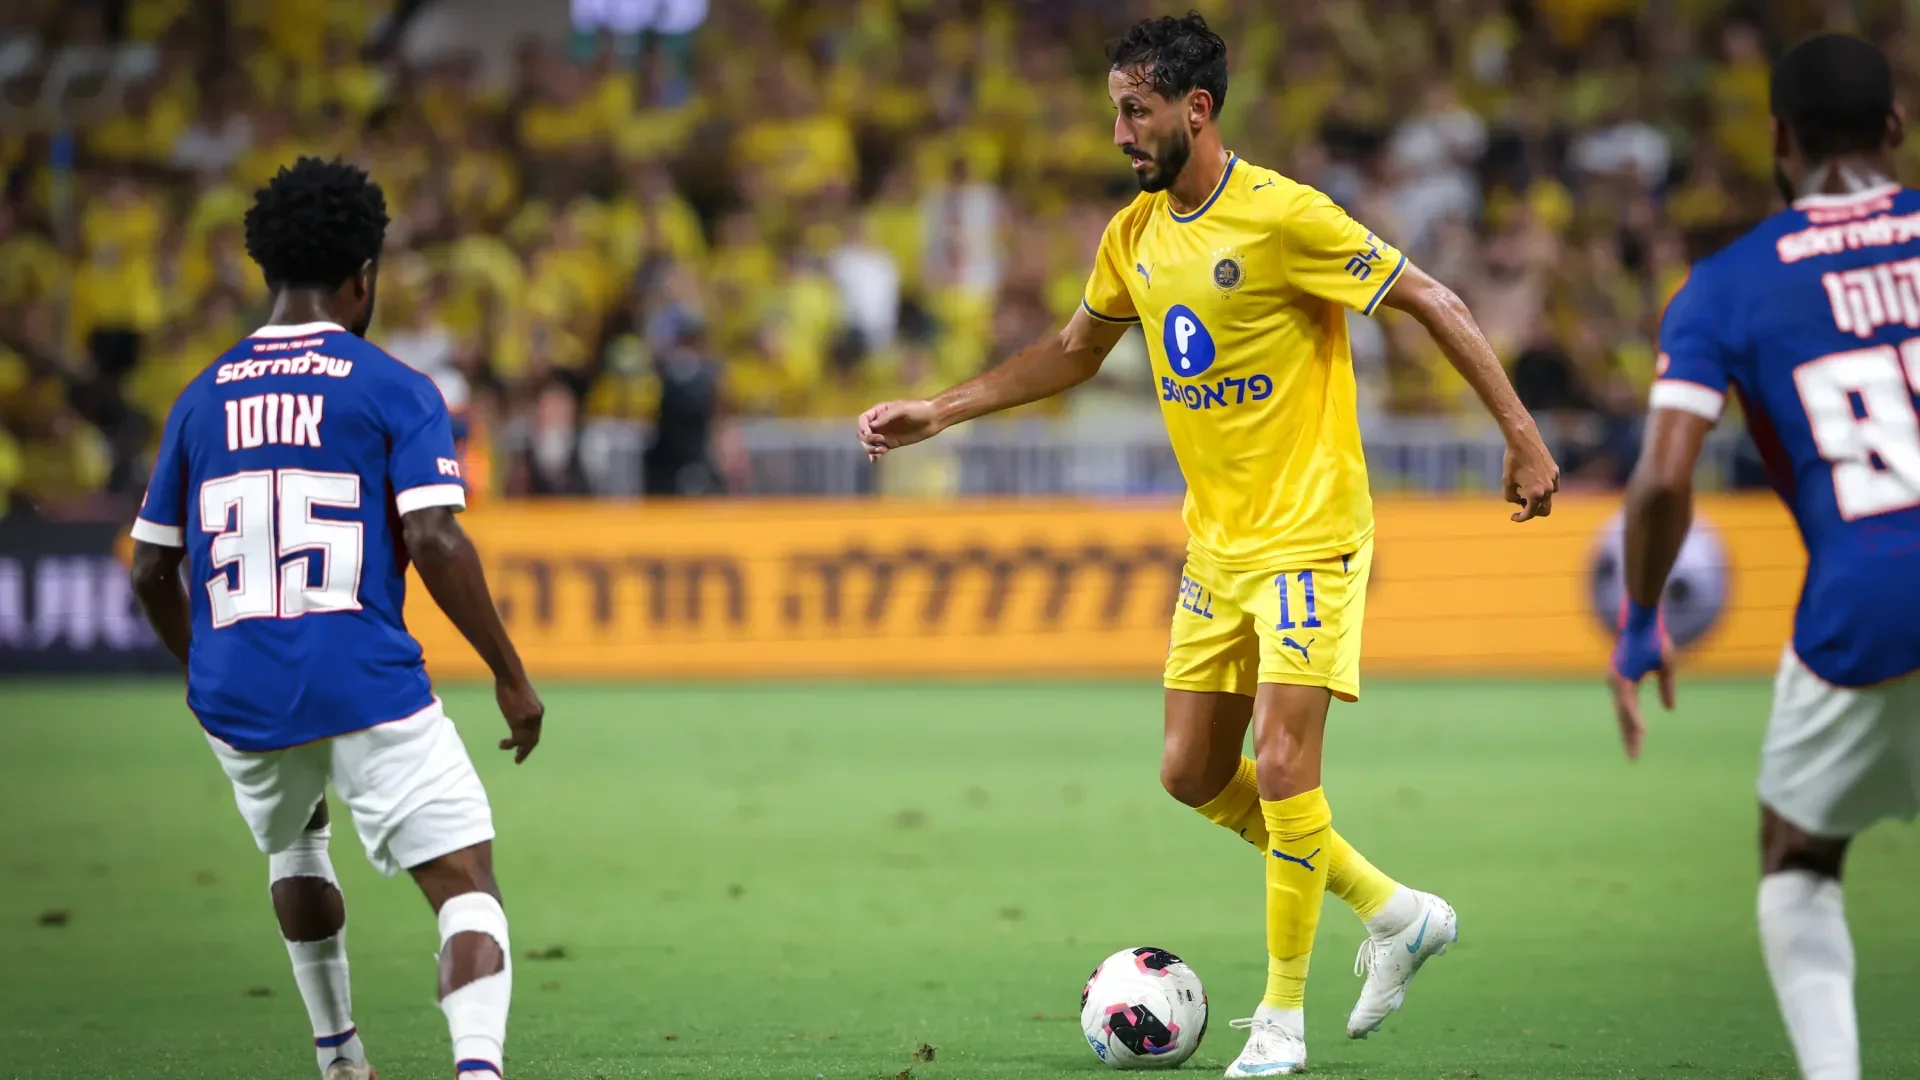
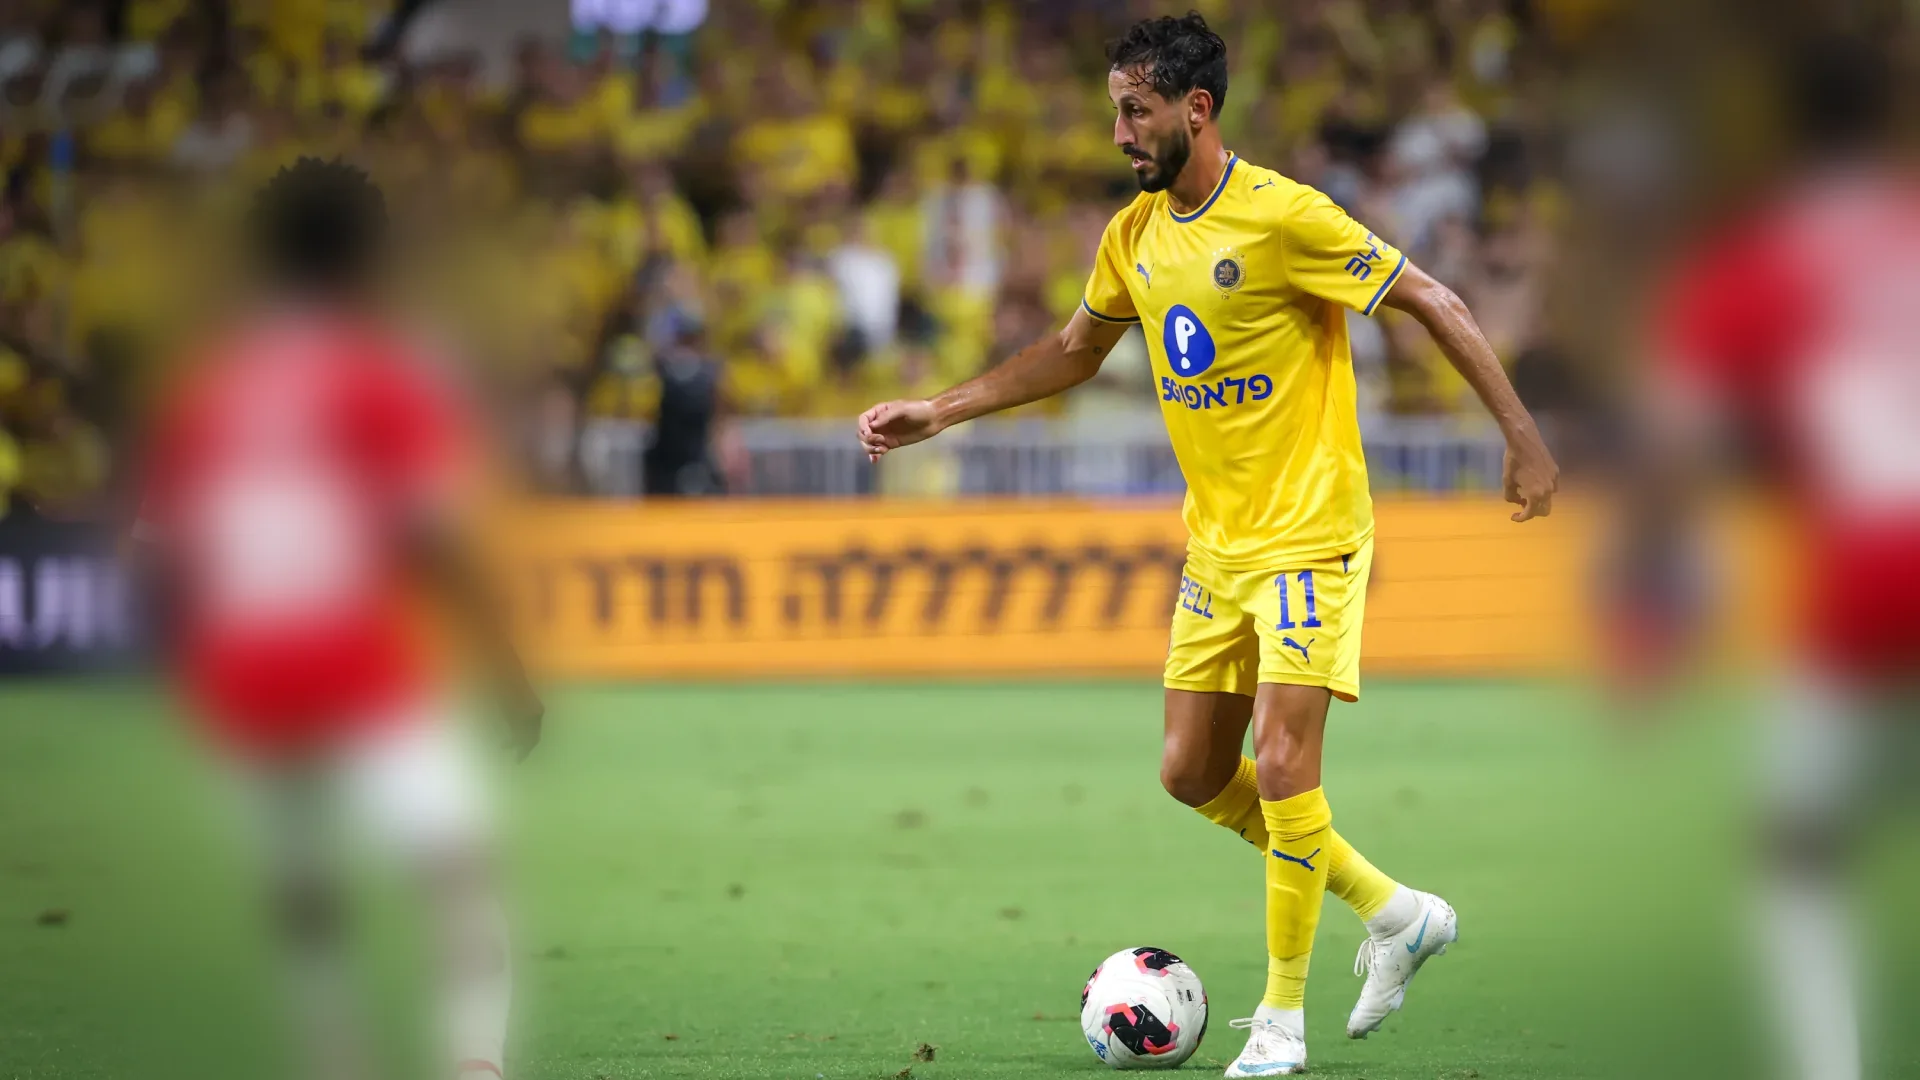
Blur rival players instead of recolouring photos
Only match-home-1 is edited now: the two opposing players in red are blurred
(scripts/blur-rivals.py). Crowd, tifo and the other match photos are back to
the originals.

Claude-Session: https://claude.ai/code/session_01Wnot8EfJdmEaDCsw2dcasM

diff --git a/scripts/blur-rivals.py b/scripts/blur-rivals.py
@@ -1,0 +1,33 @@
+"""Blur opposing players in red kits out of match photos.
+
+Red is the colour of the club's biggest rival, so on the site those players
+are softened into the background rather than recoloured. The crowd and the
+Maccabi players stay untouched. Run from the repo root:
+    python3 -I scripts/blur-rivals.py
+Regions were located from the red mask of each photo and padded to cover the
+whole player (head to boots). The source files are listed in public/media/CREDITS.md.
+"""
+from PIL import Image, ImageDraw, ImageFilter
+
+REGIONS = {
+    # file: [(left, top, right, bottom), ...] in source pixels (1920x1080)
+    "public/media/match-home-1.webp": [(70, 150, 580, 1080), (1530, 0, 1920, 1080)],
+}
+
+
+def blur_regions(path: str, boxes: list[tuple[int, int, int, int]]) -> None:
+    im = Image.open(path).convert("RGB")
+    blurred = im.filter(ImageFilter.GaussianBlur(30))
+    mask = Image.new("L", im.size, 0)
+    draw = ImageDraw.Draw(mask)
+    for box in boxes:
+        draw.rounded_rectangle(box, radius=90, fill=255)
+    # A wide feather so the blur dissolves into the pitch instead of ending in a hard edge.
+    mask = mask.filter(ImageFilter.GaussianBlur(45))
+    Image.composite(blurred, im, mask).save(path, "WEBP", quality=84, method=6)
+    print(f"{path}: blurred {len(boxes)} region(s)")
+
+
+if __name__ == "__main__":
+    for file, boxes in REGIONS.items():
+        blur_regions(file, boxes)

diff --git a/public/media/CREDITS.md b/public/media/CREDITS.md
@@ -31,4 +31,4 @@ Before anything goes public, the club must confirm usage rights, including photo
 | match-home-2.webp | 1920x1080 | https://static.maccabi-tlv.co.il/wp-content/uploads/2026/10/MTA_2026102909043254530175ca9e3c5918c654103ebf1ab0.jpg |
 | lifestyle-editorial.webp | 1920x1080 | https://static.maccabi-tlv.co.il/wp-content/uploads/2026/09/MTA_202609080948014aee716c7bb04309a7c18c899b232b74.jpg |
 
-Some match photos are colour-graded: saturated reds (rival kits, red seats) are shifted to Maccabi blue with scripts/club-colors.py.
+match-home-1.webp is edited: the two opposing players in red kits are blurred (scripts/blur-rivals.py). All other photos are unedited.
